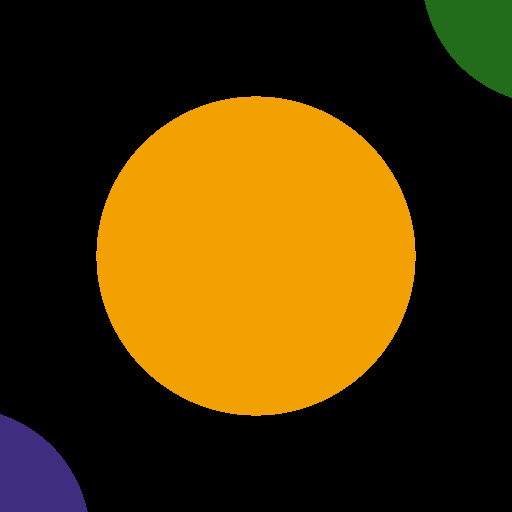
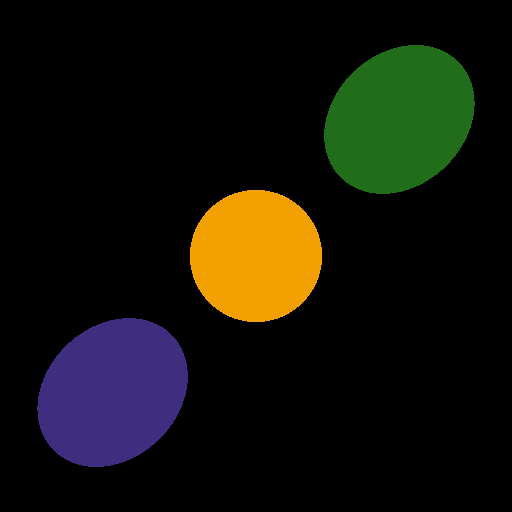
fix for camera

diff --git a/src/models/camera.rs b/src/models/camera.rs
@@ -38,7 +38,7 @@ impl Camera {
         let y_n = (v as f64 + 0.5) / self.resolution.vertical as f64;
 
         // 2. FOV calculations (corrected scaling for fov_y)
-        let fov_x = self.horizontal_fov.angle.to_radians() / 2.0; // Horizontal FOV
+        let fov_x = self.horizontal_fov.angle.to_radians(); // Horizontal FOV
         let fov_y = fov_x * (self.resolution.vertical as f64 / self.resolution.horizontal as f64); // Aspect ratio scaling
 
         // 3. Map to image plane range [-1, 1]
